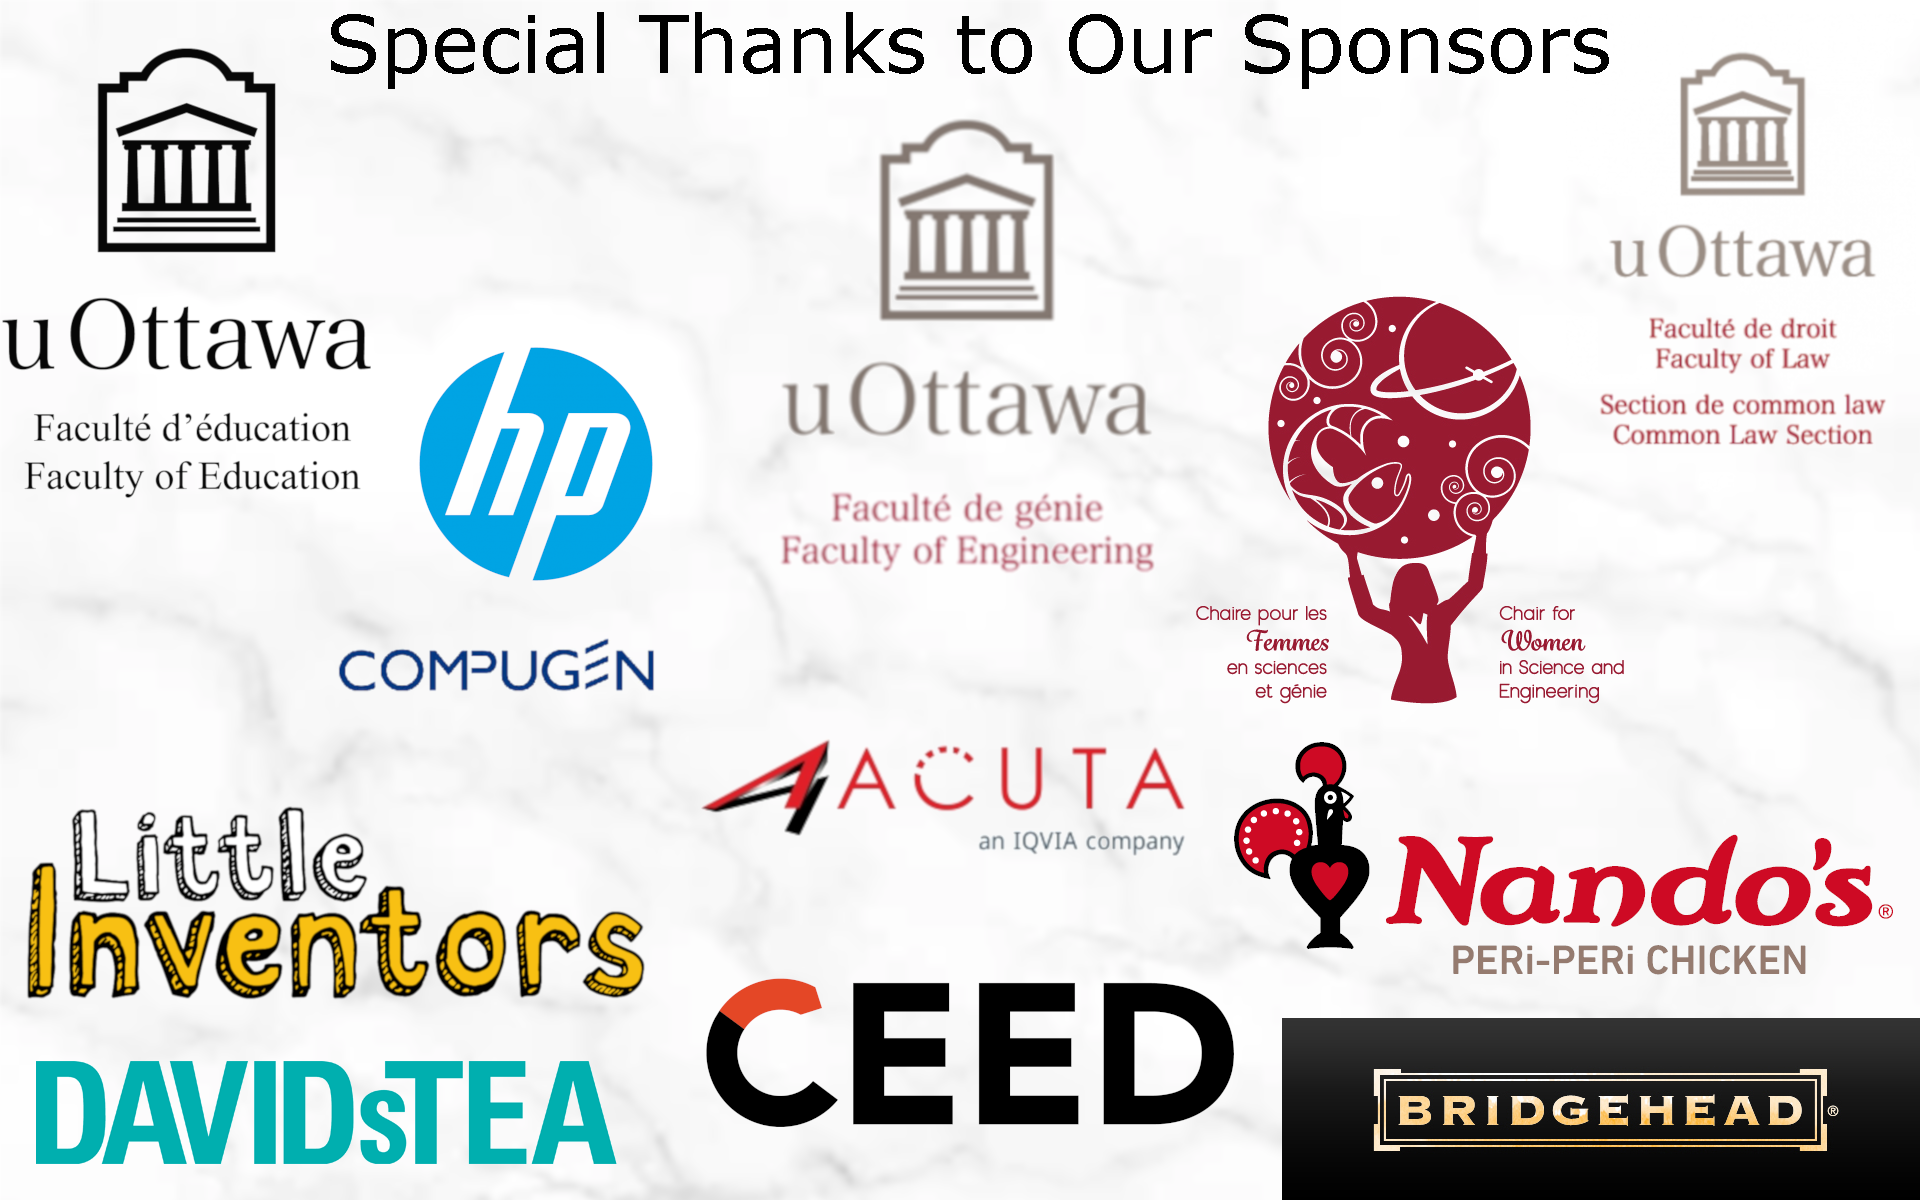
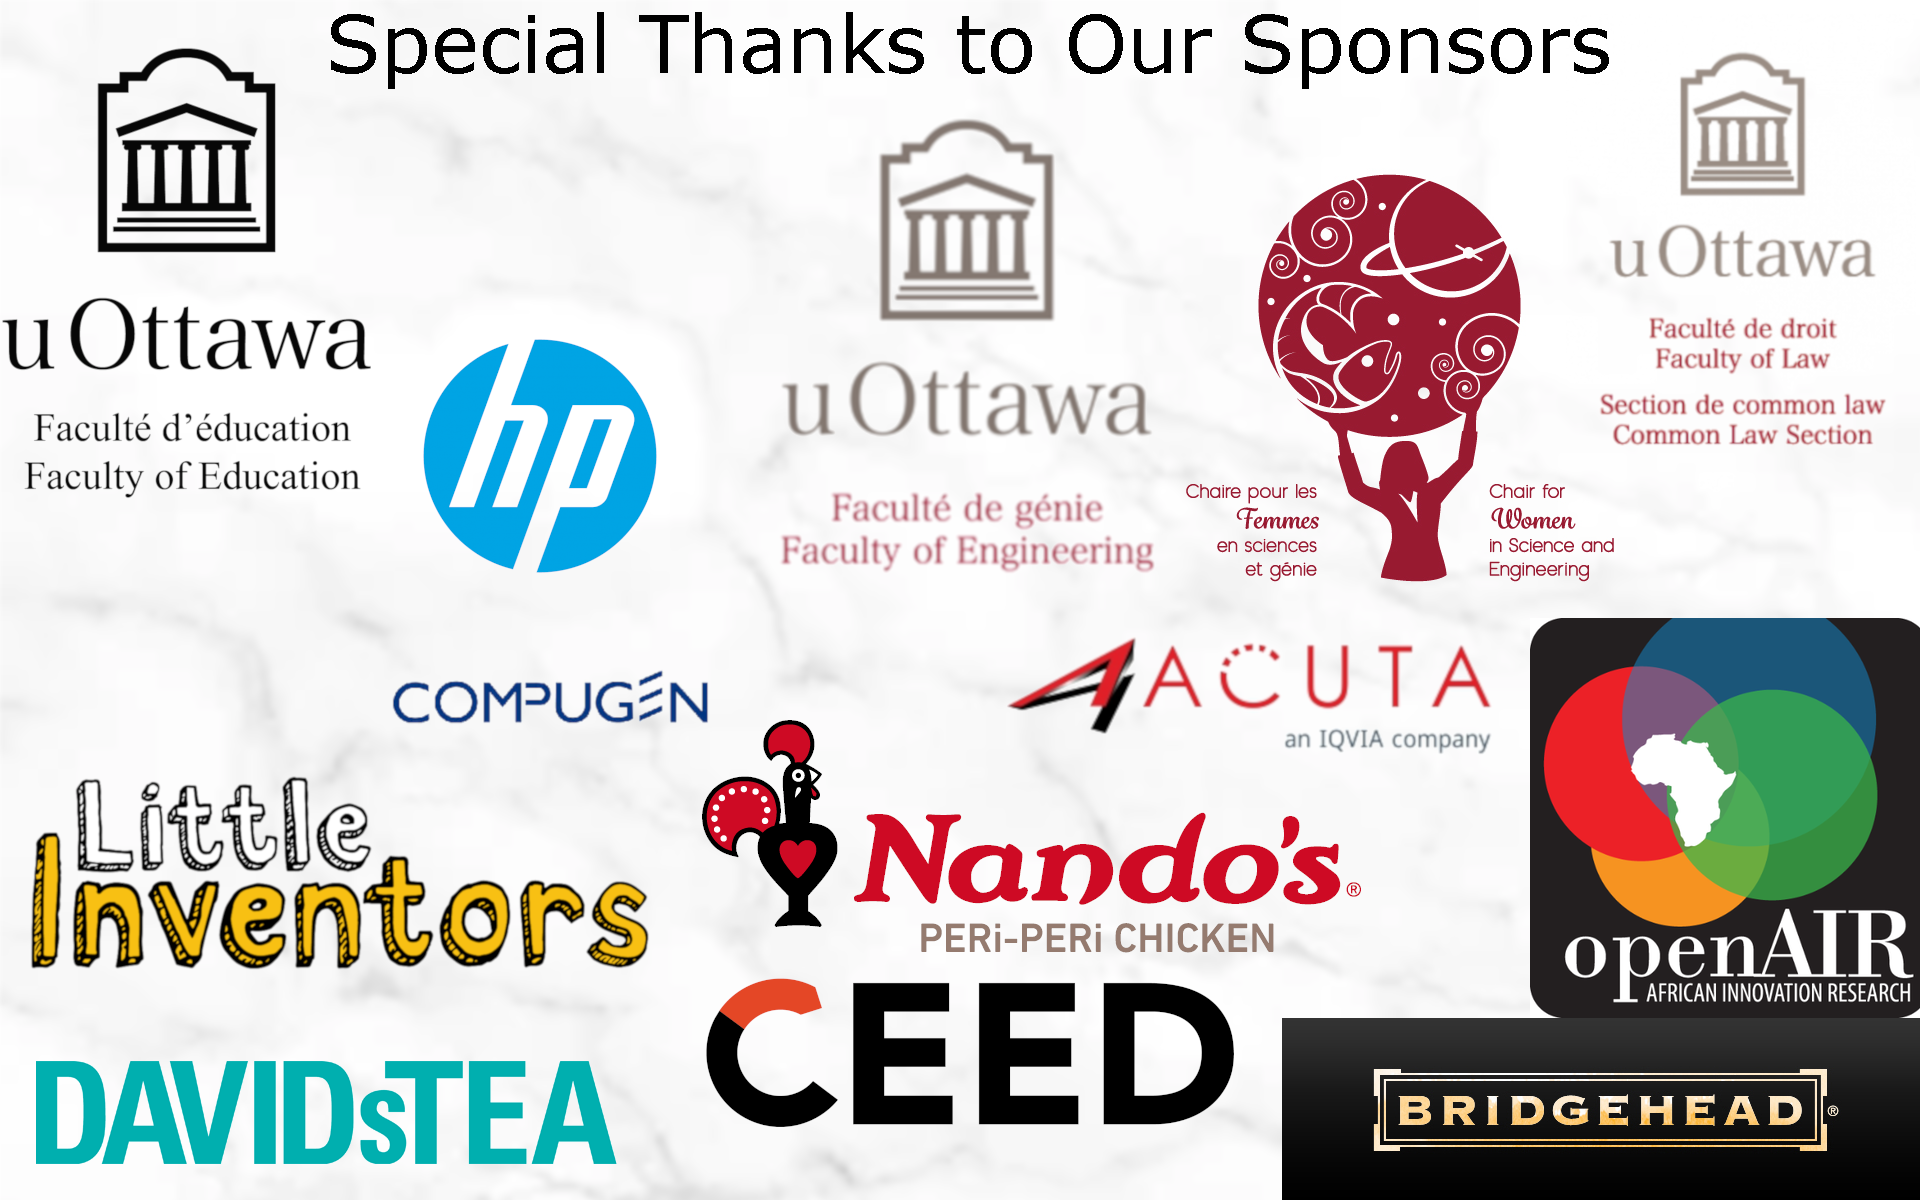
update anotherone

diff --git a/panels.html b/panels.html
@@ -52,7 +52,7 @@
       <section>
         <h3>Maker Research in Education: Implications for Practice <br /> Les recherches Bricoleurs en éducation: Les implications pour la pratique </h3>
         <p>
-          <b>Moderator:</b> Michelle Schira Hagerman<br/> Assistant Professor of Educational Technology in the Faculty of Education. She studies the interactions of Maker pedagogies and literacies learning for young adolescents.<br />
+          <b>Moderator:</b><br /><b> Michelle Schira Hagerman</b><br/> Assistant Professor of Educational Technology in the Faculty of Education. She studies the interactions of Maker pedagogies and literacies learning for young adolescents.<br />
           <b>Panelists:</b>
           <ul>
             <li>
@@ -84,17 +84,13 @@
           <div style="display:inline-grid;">
             <div class="image"><img style="width:130px;padding:7px;" src="pictures/JLCiocca.png" alt="" /><h6>Jean-Luc Ciocca</h6></div>
           </div>
-
-          <div style="display:inline-grid;">
-
-          </div>
         </center>
 
       </section>
       <section>
         <h3>Making an Impact</h3>
         <p>
-          <b>Moderator:</b>Midia Shikh Hassan- Co-founder of Dextra, 3D printed prosthetics. <br />
+          <b>Moderator:</b><br /><b>Midia Shikh Hassan</b><br /> Co-founder of Dextra, 3D printed prosthetics. <br />
           <b>Panelists:</b>
           <ul>
             <li>
@@ -129,7 +125,7 @@ Join us to get inspired and to find out how to MAKE an impact.
       <section>
         <h3>DISCOVER: The Learning Crossroads, Library spaces</h3>
         <p>
-          <b>Moderator:</b>Maryse Laflamme, Universit of Ottawa library acting head, Learning and Student Success <br />
+          <b>Moderator:</b><br /><b>Maryse Laflamme</b>, Universit of Ottawa library acting head, Learning and Student Success <br />
           <b>Panelists:</b>
           <ul>
             <li>
@@ -155,7 +151,7 @@ Join us to get inspired and to find out how to MAKE an impact.
       <section>
         <h3>STEM + ART = STEAM</h3>
         <p>
-          <b>Moderator:</b> Chantal Rodier, A STEAM art consultant and professor offering a unique set of management, artistic and information technology skills and experience. <br />
+          <b>Moderator:</b><br /><b> Chantal Rodier</b>, A STEAM art consultant and professor offering a unique set of management, artistic and information technology skills and experience. <br />
           <b>Panelists:</b>
           <ul>
             <li>
@@ -178,36 +174,92 @@ Join us to get inspired and to find out how to MAKE an impact.
 
 
       </section>
-
-      <!-- <section>
-        <h3>Making the world accessible</h3>
+      <section>
+        <h3>Making and Inclusion in Africa: Research and Practice<br />
+Panel convened by the Open African Innovation Research (Open AIR) network<br />
+www.openair.org.za
+</h3>
         <p>
-          <b>Moderator:</b> Justine Boudreau<br />
+          <b>Moderator:</b><br /><b> Dr. Chris Armstrong</b>, Research Associate, Open African Innovation Research (Open AIR) network, Centre for Law, Technology and Society (CLTS), University of Ottawa; and Visiting Fellow, LINK Centre, University of the Witwatersrand (Wits), Johannesburg, South Africa <br />
           <b>Panelists:</b>
           <ul>
             <li>
-              <b>Bocar N’Diaye</b>, Assistive Technologist, Bruyère Continuing Care
+              <b> Sandra Juliet Ahiataku, </b>, Operations Associate, Kumasi Hive, Kumasi, Ghana
+            </li>
+            <li>
+              <b>Ousia Foli-Bebe</b>, Founder and Executive Manager, EcoTecLab Makerspace, Lomé, Togo
+            </li>
+            <li>
+              <b>Thomas Hervé Mboa Nkoudou</b>, Open African Innovation Research (Open AIR) network researcher and PhD Candidate in Public Communication, Université Laval, Quebec City, Canada; and International President, Association for the Promotion of OpenScience in Haiti and Africa (APSOHA)
 
             </li>
+            <li>
+              <b>Nagham ElHoussamy</b>, Researcher and North Africa Hub Coordinator, Open African Innovation Research (Open AIR) network; and Research Coordinator, Access to Knowledge for Development Center (A2K4D), The American University in Cairo (AUC), Egypt
+
+            </li>
+            <li>
+              <b>Omar El Safty</b>, Director, Fab Lab Egypt, Cairo, Egypt
+            </li>
+
+          </ul>
+          <b>Content:</b><br />This panel will examine the African maker movement’s efforts to foster innovation-inclusion through outreach to grassroots innovators including youth, schoolchildren, and girls and women. The moderator and panelists, who are a mix of practitioners and researchers, will reflect on current innovation-inclusion dynamics in the maker movement in 9 African countries: Ghana, Togo, Cameroon, Burkina Faso, Senegal, Egypt, Tunisia, Morocco and South Africa. The panel is being convened by the Open African Innovation Research (Open AIR) network, www.openair.org.za, which is headquartered at the University of Ottawa Faculty of Law's Centre for Law, Technology and Society (CLTS) and the University of Cape Town Faculty of Law, with additional hubs in East, West and North Africa.
+
+
+        </p>
+        <center>
+          <div class="image"><img style="width:130px;padding: 7px;" src="pictures/Open AIR logo.png" alt="" /> <a href="www.openair.org.za"><h6>Open AIR</h6></a></div>
+
+          <div style="display:inline-grid; text-align:left">
+            <div class="image"><img style="width:130px;padding: 7px;" src="pictures/Chris Armstrong.jpg" alt="" /> <h6>Dr.Chris Armstrong</h6></div>
+          </div>
+          <div style="display:inline-grid;">
+            <div class="image"><img style="width:130px;padding: 7px;" src="pictures/Sandra Juliet Ahiataku.png" alt="" /><h6>Sandra Juliet Ahiataku</h6></div>
+          </div>
+          <div style="display:inline-grid;">
+            <div class="image"><img style="width:130px;padding: 7px; " src="pictures/Ousia Foli-Bebe.png" alt="" /><h6>Ousia Foli-Bebe</h6></div>
+          </div>
+          <div style="display:inline-grid; text-align:left">
+            <div class="image"><img style="width:130px;padding: 7px;" src="pictures/Thomas Hervé Mboa Nkoudou.jpg" alt="" /> <h6>Thomas Hervé Mboa Nkoudou</h6></div>
+          </div>
+          <div style="display:inline-grid;">
+            <div class="image"><img style="width:130px;padding: 7px;" src="pictures/Nagham ElHoussamy.jpg" alt="" /><h6>Nagham ElHoussamy</h6></div>
+          </div>
+          <div style="display:inline-grid;">
+            <div class="image"><img style="width:130px;padding: 7px; " src="pictures/Omar El Safty.jpg" alt="" /><h6>Omar El Safty</h6></div>
+          </div>
+
+  </center>
+
+      </section>
+
+      <section>
+        <h3>Making the world accessible</h3>
+        <p>
+          <b>Moderator:</b><br />  <b>Bocar N’Diaye</b>, Assistive Technologist, Bruyère Continuing Care</br>
+          <b>Panelists:</b>
+          <ul>
+
             <li>
               <b>Yih Lerh Huang PhD FRSA</b>, Volunteer, Bruyère Continuing Care
             </li>
             <li>
-              <b>Mohamed Elsageyer</b>, Assistive Technologist Intern, Bruyère Continuing Care; and Student, Bachelor of Applied Science in Computer Engineering, uOttawa Faculty of Engineering
+              <b>Adrian Chan</b>, Professor with the Department of Systems and Computer Engineering, interim Associate Vice-President Teaching and Learning at Carleton University, Director of the NSERC CREATE Research and Education in Accessibility
 
             </li>
             <li>
-              <b>Steve Crane</b>, Job Coach
+              <b>Steve Crane</b>, Support worker for people with disabilities, and a lifelong interest in technology and creating. He currently works at a nonprofit organization that supports adults with disabilities in the area of computer access and education.
             </li>
             <li>
-              <b>Marie-Claude Gagnon</b>, Accessibility Policy Officer, Human Rights Office, University of Ottawa
-
+              <b>Paul Marriage</b>, Coordinator of Tetra Socity Ottawa Chapter.
             </li>
+            <li>
+              <b>Jim Carty</b>,
+            </li>
+
           </ul>
-          <b>Content:</b><br />As our technology becomes more advanced there is an opportunity to greatly improve the lives of people who live with a disability. The panelists will discuss efforts by St-Vincent Hospital in Ottawa, the uOttawa Richard
-          L’Abbé Makerspace design courses and uOttawa Humans Rights Office to create technology that makes lives more independent. St-Vincent Hospital deals with our continuously aging population as well as people who have complex care needs and is trying
-          to find new ways to help their patients do tasks with the help of technology. uOttawa Faculty of Engineering offers a product design course where the students are tasked to help one person or a group of people with a specific need (e.g. operate
-          the TV with your foot).
+          <b>Content:</b><br />AATOS
+The basic idea is a full fledge operating system for accessibility that can connect to various projects and solutions in assistive technology called: Augmentative Assistive Technology Operating System (AATOS). AATOS is a low cost open source accessibility toolbox platform for people with physical disabilities. At the wake of our digital world we run the risk of creating a digital divide for those who have the means and physical abilities and those you don't have the mean of expensive technologies and have some severe, medium or minor disabilities.
+The project plans carried out by Bruyère Continuing Care and its significant number of partners, volunteers and universities using their combined skills and expertise will result from having an optimum technology set available that allows persons with various degrees of disability gain full access to all forms of digital services in a cost effective and reliable fashion
 
 
         </p>
@@ -215,7 +267,7 @@ Join us to get inspired and to find out how to MAKE an impact.
 
 
                     <div style="display:inline-grid; text-align:left">
-                      <div class="image"><img style="width:130px;padding: 7px;" src="pictures/jboudreau.png" alt="" /></div>
+
                     </div>
                     <div style="display:inline-grid;">
                       <div class="image"><img style="width:130px;padding: 7px;" src="pictures/bndiaye.png" alt="" /></div>
@@ -224,18 +276,18 @@ Join us to get inspired and to find out how to MAKE an impact.
                       <div class="image"><img style="width:130px;padding: 7px;" src="pictures/yhuang.png" alt="" /></div>
                     </div>
                     <div style="display:inline-grid;">
-                      <div class="image"><img style="width:130px;padding: 7px; " src="pictures/melsageye.png" alt="" /></div>
+
                     </div>
 
                     <div style="display:inline-grid;">
-                      <div class="image"><img style="width:130px;padding:7px;" src="pictures/mgagnon.png" alt="" /></div>
+                    
                     </div>
                     <div style="display:inline-grid;">
 
                     </div>
     </center>
 
-      </section> -->
+      </section>
 
     </article>
 

diff --git a/index.html b/index.html
@@ -295,16 +295,16 @@
                       </a>
                     </td>
                        <td>
-                     <a href="speakers.html#KellyNahwegahbowMarsolais">
+                     <!-- <a href="speakers.html#KellyNahwegahbowMarsolais"> -->
                       <div class="bioboxtable lightorange">
                         <div class="hover-image">
-                          <img class="bioimgtable" src="pictures/Uotthack.jpg" />
+                          <img class="bioimgtable" src="pictures/codecode.jpg" />
                           <h4></h4>
                         </div>
-                        <h3 class="biohead">uOttaHack</h3>
-                        <h5 class="biohead"> Coding workshop</h5>
+                        <h3 class="biohead">Workshop by: Nicolas Onyra & Madeleine Kyne</h3>
+                        <h5 class="biohead"> Intro to Coding </h5>
                       </div>
-                      </a>
+                      <!-- </a> -->
                     </td>
 
                   </tr>
@@ -347,6 +347,7 @@
                       </div>
                       <h3 class="biohead">David McDougall & Sasha Phipps</h3>
                       <h5 class="biohead">Digital Processes and the Visual Arts</h5>
+                      <h6 class="biohead">CoFab Arts building:218</h6>
                       </div>
                       </a>
 
@@ -379,11 +380,11 @@
                       <a href="panels.html">
                         <div class="bioboxtable grey">
                           <div class="hover-image">
-                            <img class="bioimgtable" src="pictures/Chris-Armstrong-300x300.jpg" />
+                            <img class="bioimgtable" src="pictures/Open AIR logo.png" />
                             <h4> Research and Practic </h4>
                           </div>
-                          <h3 class="biohead">Panel by: Chris Armstrong </h3>
-                          <h5 class="biohead">Making and Inclusion in Africa</h5>
+                          <h3 class="biohead">Panel by: Open African Innovation Research (Open AIR) network </h3>
+                          <h5 class="biohead">Making and Inclusion in Africa: Research and Practice</h5>
                         </div>
 
                       </a>
